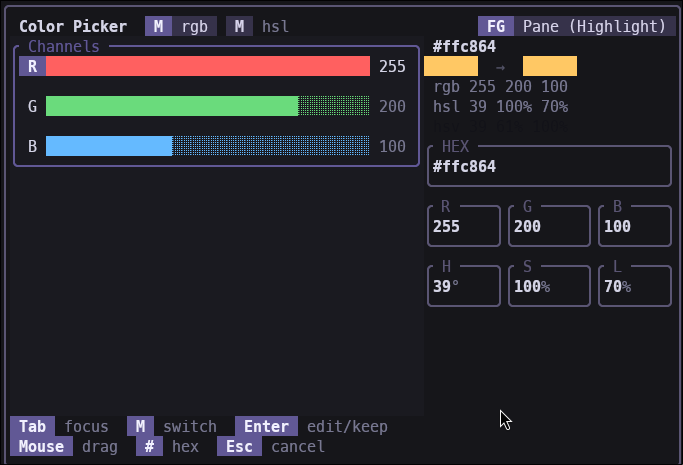
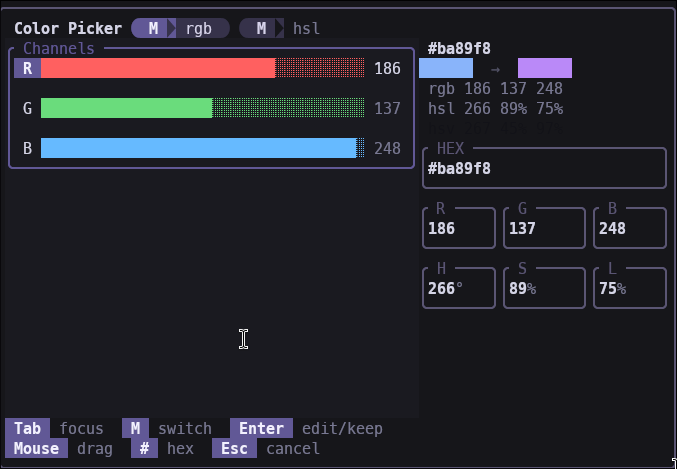
widget: use a consistent light color for the Channels and Color Field titles

diff --git a/src/widget.rs b/src/widget.rs
@@ -161,6 +161,7 @@ impl StatefulWidget for ColorPicker {
                 let channels_focus = matches!(state.focus, ColorPickerFocus::RgbSlider(_));
                 let channels_block = Block::bordered()
                     .title(" Channels ")
+                    .title_style(Style::new().fg(t.text).add_modifier(Modifier::BOLD))
                     .border_type(BorderType::Rounded)
                     .border_style(Style::new().fg(if channels_focus { t.accent_bg } else { t.border }))
                     .style(Style::new().bg(t.surface_bg));
@@ -239,7 +240,7 @@ impl StatefulWidget for ColorPicker {
                     .title(if field_focus { " Color Field \u{25cf} " } else { " Color Field " })
                     .title_style(
                         Style::new()
-                            .fg(if field_focus { t.accent_fg } else { t.muted })
+                            .fg(t.text)
                             .add_modifier(if field_focus { Modifier::BOLD } else { Modifier::empty() }),
                     )
                     .border_type(if field_focus { BorderType::Double } else { BorderType::Rounded })